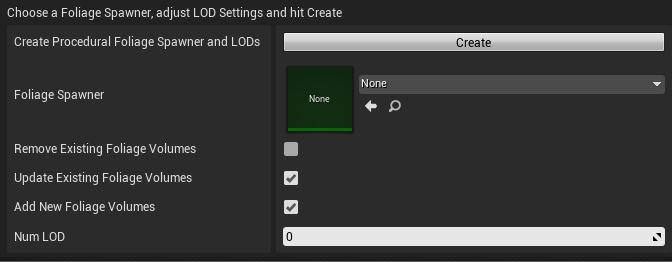
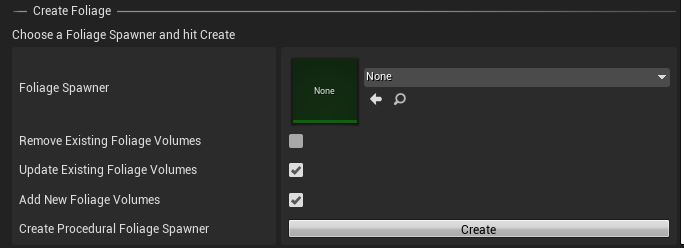
working on phrasing and typos

diff --git a/docs/landcover.md b/docs/landcover.md
@@ -16,17 +16,17 @@ Pick a Landscape Material from your content folder. I like the Brushify Landscap
 
 ## Material Layers
 
-A whole bunch of checkboxes will appear. So what is that about? Well, Here we assign the Layers of the Landscape Material to one or multiple landcover types aka landuses. One Material Layer can have one or more landcover types but not vice versa. Notice, that the column of the landcover type gets grayed out, if you assign it to a Material Layer. If a Material Layer has the same name as the landcover type, it will be already selected. It is not mandatory, to select every landuse type nor Material Layer. Weightmaps will only be created for those landuses, which are assigned to a Material Layer. For everything else, the Default Layer is used.
+A whole bunch of checkboxes will appear. So what is that about? Well, here we assign the layers of the Landscape Material to one or multiple landcover types aka landuses. One Material Layer can have one or more landcover types but not vice versa. Notice, that the column of the landcover type gets grayed out, if you assign it to a Material Layer. If a Material Layer has the same name as the landcover type, it will appear already selected. It is not mandatory, to select every landuse type nor Material Layer. Weightmaps will only be created for those landuses, which are assigned to a Material Layer. For everything else, the Default Layer is used.
 
 > All Material Layers in use are generated as weightblended
 
 ## Default Layer
 
-The default layer is used everywhere, on the landscape, if there is no other landuse type assigned. In areas, which have another layer, the default layer has a weight of 10%.
+The Default Layer is used everywhere, on the landscape, if there is no other landuse type assigned. In areas, which have another layer, the Default Layer has a weight of 10%.
 
 ## Wait for it
 
-When pleased with the mapping close the Landscape Material and Weightmaps Window and click the `Import` button in the `Import Landscape` section.
+When pleased with the mapping close the Landscape Material and Weightmaps window and click the `Import` button in the `Import Landscape` section.
 
 > It is possible to import the raster files for heights and the Shapefiles at once or to import the heights, and then import the Shapefiles for landcover afterwards. If there is already a landscape or World Composition in the scene, the Button reads `Update`. Otherwise it reads `Close`. Update will erase the current weightmaps and replace them with the new settings.
 

diff --git a/docs/props.md b/docs/props.md
@@ -2,7 +2,7 @@
 
 Landscaping let you create rivers, streets, railroads etc. from Shapefiles with Unreal Engine 4 Spline Component. Here, like in the section about landcover, please see [Get Data](get-data.md?id=vector-data) what input files are suitable for this task.
 
-> Importing vector data from Shapefiles is meant to lay out a scene quickly. It will not get you a final result. Post editing will be needed to adjust the generated Splines or Blueprints.
+> Importing vector data from Shapefiles is meant to lay out a scene quickly. It will not get you a final result. Post editing will be needed to adjust the generated splines or Blueprints.
 
 ## Generate from Mesh or Blueprint
 
@@ -15,8 +15,8 @@ Landscaping let you create rivers, streets, railroads etc. from Shapefiles with 
 
 3) `Offset from Ground` specifies how much space will be between the surface of the Landscape and the point of the spline or instantiated Bluprint/Actor
 4) `Start Segment Mesh Scale` and `End Segment Mesh Scale` define how much the spline mesh will be scaled. This properties are only relevant if `Spline Segment Mesh` is selected
-5) `Revert Spline Direction` can be used, if a river is imported and flows upstream. This can happen, if the LINESTRING from the Shapefile is drawn in the wrong direction. There is no way to detect this automatically, because the LINESTRINGS only have no height information.
-6) With `OSM feature class` you can control, what type of features will be instatiated with the Blueprint or Spline. A river should have another Blueprint than a stream and a path another Blueprint than a highway. This dropdown let you select the apropriate feature class of the LINESTRINGS for the Blueprint to instantiate in the Landscape.
+5) `Revert Spline Direction` can be used, if a river is imported and flows upstream. This can happen, if the LINESTRING from the Shapefile is drawn in the wrong direction. There is no way to detect this automatically, because the LINESTRINGS normally do not have height information.
+6) With `OSM feature class` you can control, what type of features will be instatiated with the Blueprint or Spline. A river should have another Blueprint than a stream and a path another Blueprint than a highway. This dropdown let you select the apropriate feature class of the LINESTRING for the Blueprint which should be instantiated in the Landscape.
 
 > Please make sure to unload all Levels of a World Composition (except the Persistent Level) in the Unreal Engine `Levels` tab before hitting `Import`
 

diff --git a/docs/troubleshooting.md b/docs/troubleshooting.md
@@ -1,20 +1,32 @@
 # Troubleshooting
 
+## Tiles are far apart in the World Composition Tab
+
+Actually, this is just a UI problem, which is easily fixed by loading the Levels of a World Composition in the Levels Tab and save them.
+
+- Open the Levels Tab (Window -> Levels)
+- Select all Levels
+- Right-click -> Load
+- __All levels are now in the right position__
+- Right-click -> Save
+
+This will fix the wrong visualization in the World Composition Tab.
+
 ## Changing Levels
 
-When changing levels, the plugin may not detect the new level which is neccessary to save the metadata. Please close the `Landscaping Tab` and open it again. Thank you.
+When changing levels, the plugin may not detect the new World which is neccessary to save the metadata. Please close the `Landscaping Tab` and open it again. Thank you.
 
-## Edges of the landscape
+## Edges on the outmost border
 
-Due to the transformation of the input data, on areas, where no data is found the height is set to 0. Therefore, steep edges on the Landscape or World Composition outher border occur. Normally, this is not a problem, because who cares about the end of the world?  
-Anyway - there are 2 options to mitigate this, if it is a problem for your project:
+Due to the transformation of the input data, on areas, where no data is found the height is set to 0. Therefore, steep edges on outher border of the Landscape or World Composition occur. Normally, this is not a problem, because who cares about the end of the world?  
+Anyway - there are 2 options to solve this, if it is a problem for your project:
 
 - The steep edges can easily be fixed within the native Unreal Engine Landscape Mode Sculpting Tools
 - If your input data uses meter as unit, you may uncheck `Use OSM Projection` (not recommended)
 
 ## Missing Tiles
 
-When importing a Tiled Landscape you will maybe notice, that there are a couple of the enumerated Tiles missing. Good news: they are not really missing. They just did have no data and where therefore not imported at all. If you need flat tiles with all heights set to 0, you can easily add them within World Composition.
+When importing a Tiled Landscape you will maybe notice, that there are a couple of the enumerated Tiles missing. __Good news__: they are not really missing. They just did have no data and where therefore not imported at all. If you need flat tiles with all heights set to 0, you can easily add them within World Composition.
 
 ## Crashes
 

diff --git a/docs/heights.md b/docs/heights.md
@@ -31,7 +31,7 @@ Tiles will have this width max. The unit here is meter.
 
 Per default, OSM projection [EPSG:3857](https://epsg.io/3857) is used. If you want to keep the original projection of your raster file, uncheck `Use OSM Projection`.
 
-> Landscaping can handle every projection and converts it automatically. But it is highly recommended to use OSM projection. If the original raster does not use meter as unit, the result can be unsatisfying or the plugin may even crash. If you check `Use OSM Projection` everything will work fine.
+> Landscaping can handle every projection and converts it automatically. But it is highly recommended to use OSM projection. If the original raster does not use meter as unit, the result can be unsatisfying or the Unreal Editor may even crash. If you check `Use OSM Projection` everything will work fine.
 
 It is possible to import raster files with different projections and resolutions and they will be aligned properly. You do not have to worry about it. It is even possible to import GeoTiff, ASCII and HGT files toghether.  
 

diff --git a/docs/vegetation.md b/docs/vegetation.md
@@ -34,10 +34,6 @@ When checked, will add the Foliage Spawner as new Procedural Foliage Volume.
 
 Why? Well, if a Foliage Volume gets removed, it cannot be updated anymore.
 
-If everything is unchecked, only Landscape LODs will be created when hitting the `Create` button. Given that LODs are defined.
+If everything is unchecked, nothing will happen when hitting the `Create` button.
 
 > Please make sure to unload all Levels of a World Composition (except the Persistent Level) in the Unreal Engine `Levels` tab before hitting `Create`
-
-## Next step
-
-Before we spawn our plants and trees we can define [LOD Settings](lods.md)!

diff --git a/README.md b/README.md
@@ -7,7 +7,6 @@ Documentation for the Unreal Engine 4 plugin
 - Import GIS Raster Data like GeoTiff, ASCII, HGT into Unreal Engine 4
 - Generate single Landscapes or huge Open Worlds with World Composition from real Earth Digital Terrain Models (DTM)
 
-
 ## Import Vector Files
 
 - Import GIS Shapefiles to generate weightmaps and Actors from Blueprints or with Unreal Engine's Spline Component
@@ -15,4 +14,3 @@ Documentation for the Unreal Engine 4 plugin
 ## Automate Open World Tools
 
 - Automate Procedural Foliage Spawner for World Composition
-- Automate Landscape LOD generation

diff --git a/docs/README.md b/docs/README.md
@@ -18,6 +18,7 @@ Landscaping - Unreal Engine 4 Editor Plugin
 - No preprocessing of data necessary
 - No limit because of full tiled landscape support (World Composition)
 - Create props from every UE4 object and Marketplace content
+- Automate procedural foliage instantiation for World Composition
 - Works offline without restrictions
-- No runtime dependencies - only pure Unreal Engine native objects are created
+- No build dependencies - only pure Unreal Engine native objects are created
 - Builds for every platform (Windows, Mac, Linux, iOS, Android, XBox, PlayStation, etc.)

diff --git a/docs/ivectoractor.md b/docs/ivectoractor.md
@@ -1,6 +1,6 @@
 # Custom Logic on Vector Data
 
-With a C++ class or Blueprint implementing the IVectorActor interface, custom logic on importing LINESTRINGS, POLYGONS and POINTS can be fired off.
+With a C++ class or Blueprint implementing the IVectorActor interface, custom logic on importing LINESTRINGS, POLYGONS and POINTS from a Shapefile can be fired off.
 
 To use your custom Blueprint, select it under `Blueprint` in the `Import Roads, Railtracks, Rivers, etc.` section.
 

diff --git a/docs/_sidebar.md b/docs/_sidebar.md
@@ -8,7 +8,6 @@
   - [Landcover](landcover.md?id=landcover)
   - [Props](props.md?id=props)
   - [Vegetation](vegetation.md?id=vegetation)
-  - [LODs](lods.md?id=lods)
 
 - Everything else
 
